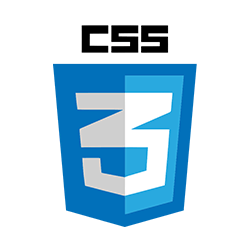
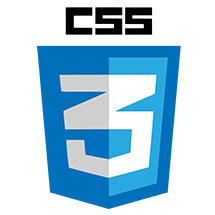
add web pic

diff --git a/index-HtmlCssJavaScript.html b/index-HtmlCssJavaScript.html
@@ -22,9 +22,9 @@
     
 	<style>
 		.index_image {
-			width: 80%;
-			height: 80%;
-			background-color: white;
+			padding-top: 0%;
+			width: 100%;
+			height: 90%;
 		}
 	</style>
 </head> 
@@ -108,7 +108,7 @@
 			    <div class="item mb-5">
 				    <div class="row g-3 g-xl-0">
 					    <div class="col-2 col-xl-3">
-					        <img class="index_image" src="assets/images/blog/Web/html.jpg" alt="image" width="150" height="150">
+					        <img class="index_image" src="assets/images/blog/Web/html.png" alt="image" width="150" height="150">
 					    </div>
 					    <div class="col">
 						    <h3 class="title mb-1"><a class="text-link" href="post-linux-HandlingLinuxCommands.html">HTML</a></h3>
@@ -126,7 +126,7 @@
 				<div class="item mb-5">
 				    <div class="row g-3 g-xl-0">
 					    <div class="col-2 col-xl-3">
-					        <img class="index_image" src="assets/images/blog/Web/css.jpg" alt="image" width="150" height="150">
+					        <img class="index_image" src="assets/images/blog/Web/css.png" alt="image" width="150" height="150">
 					    </div>
 					    <div class="col">
 						    <h3 class="title mb-1"><a class="text-link" href="post-linux-LinuxOperatingCommands.html">CSS</a></h3>
@@ -145,7 +145,7 @@
 					<div class="item mb-5">
 						<div class="row g-3 g-xl-0">
 							<div class="col-2 col-xl-3">
-								<img class="index_image" src="assets/images/blog/Web/javascript.jpg" alt="image" width="150" height="150">
+								<img class="index_image" src="assets/images/blog/Web/javascript.png" alt="image" width="150" height="150">
 							</div>
 							<div class="col">
 								<h3 class="title mb-1"><a class="text-link" href="index-JavaScript.html">JavaScript</a></h3>
